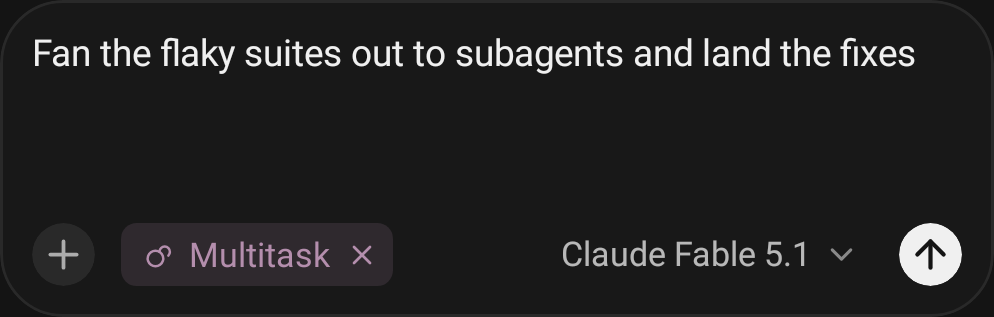
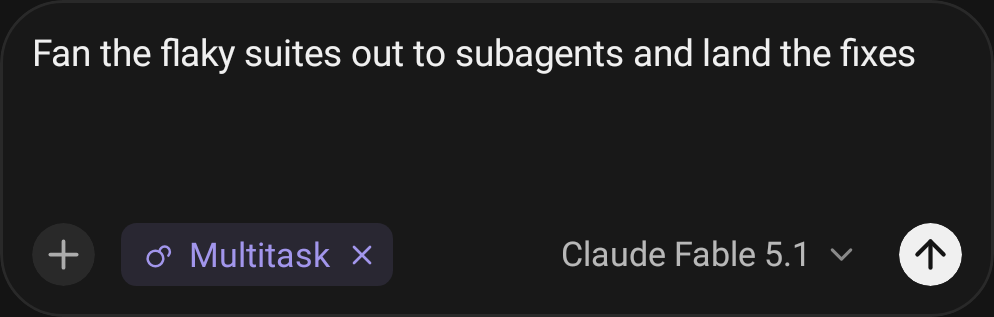
Tint the composer pills in the web's violet
The Plan and Multitask pills took the theme's purple token, the Anysphere mauve
(#B48EAD), which at a 14 % wash reads as grey next to the reference capture of
cursor.com/agents. Both pills now use the violet measured off that capture —
glyph, label and cross at #A296EC on a 12 % wash, which lands the wash at the
reference's #272532 over the dark surface — and the same hue two steps darker
(#6A5ACD) in the light theme so the label keeps its contrast. Screenshots 30,
31 and 33 re-recorded.

Changed region(s): [[0.1247, 0.7666, 0.3742, 0.8517]]

diff --git a/app/src/main/java/com/cursorforandroid/ui/components/ModePills.kt b/app/src/main/java/com/cursorforandroid/ui/components/ModePills.kt
@@ -13,6 +13,7 @@ import androidx.compose.material3.Text
 import androidx.compose.runtime.Composable
 import androidx.compose.ui.Alignment
 import androidx.compose.ui.Modifier
+import androidx.compose.ui.graphics.Color
 import androidx.compose.ui.graphics.vector.ImageVector
 import androidx.compose.ui.text.TextRange
 import androidx.compose.ui.text.input.TextFieldValue
@@ -119,19 +120,32 @@ object ModePills {
 }
 
 /**
+ * The violet cursor.com/agents paints its Multitask pill in, measured off the official capture: glyph, label and
+ * cross at #A296EC on a 12 % wash of the same over the composer's surface (the wash reads #272532 on #181818, as
+ * the reference does). Not the theme's `purple` — the Anysphere mauve, #B48EAD — which is grey at that alpha. The
+ * light theme keeps the hue two steps darker so the label holds its contrast on the light surface.
+ */
+internal val PillVioletDark = Color(0xFFA296EC)
+internal val PillVioletLight = Color(0xFF6A5ACD)
+
+/** How much of the violet the pill's wash carries over the surface, dark or light. */
+private const val PillWashAlpha = 0.12f
+
+/**
  * A mode the message goes out under, worn in the composer footer the way cursor.com/agents wears Multitask: a wash
- * of the theme's purple with the mode's glyph and name, and a cross that takes it off again. The label never wraps
- * and yields no width: the model chip beside send is what gives way when the footer is tight.
+ * of the web's violet ([PillVioletDark] / [PillVioletLight]) with the mode's glyph and name in the same violet, and a
+ * cross that takes it off again. The label never wraps and yields no width: the model chip beside send is what gives
+ * way when the footer is tight.
  */
 @Composable
 fun ModePill(pill: ModePills.Pill, onClear: () -> Unit, modifier: Modifier = Modifier) {
     val colors = CursorTheme.colors
     val type = CursorTheme.typography
-    val tint = colors.purple
+    val tint = if (colors.isDark) PillVioletDark else PillVioletLight
     Row(
         modifier
             .heightIn(min = CursorDimens.roundButton)
-            .background(tint.copy(alpha = 0.14f), CursorTheme.shapes.base)
+            .background(tint.copy(alpha = PillWashAlpha), CursorTheme.shapes.base)
             .padding(start = 8.dp, end = 3.dp),
         verticalAlignment = Alignment.CenterVertically,
     ) {
